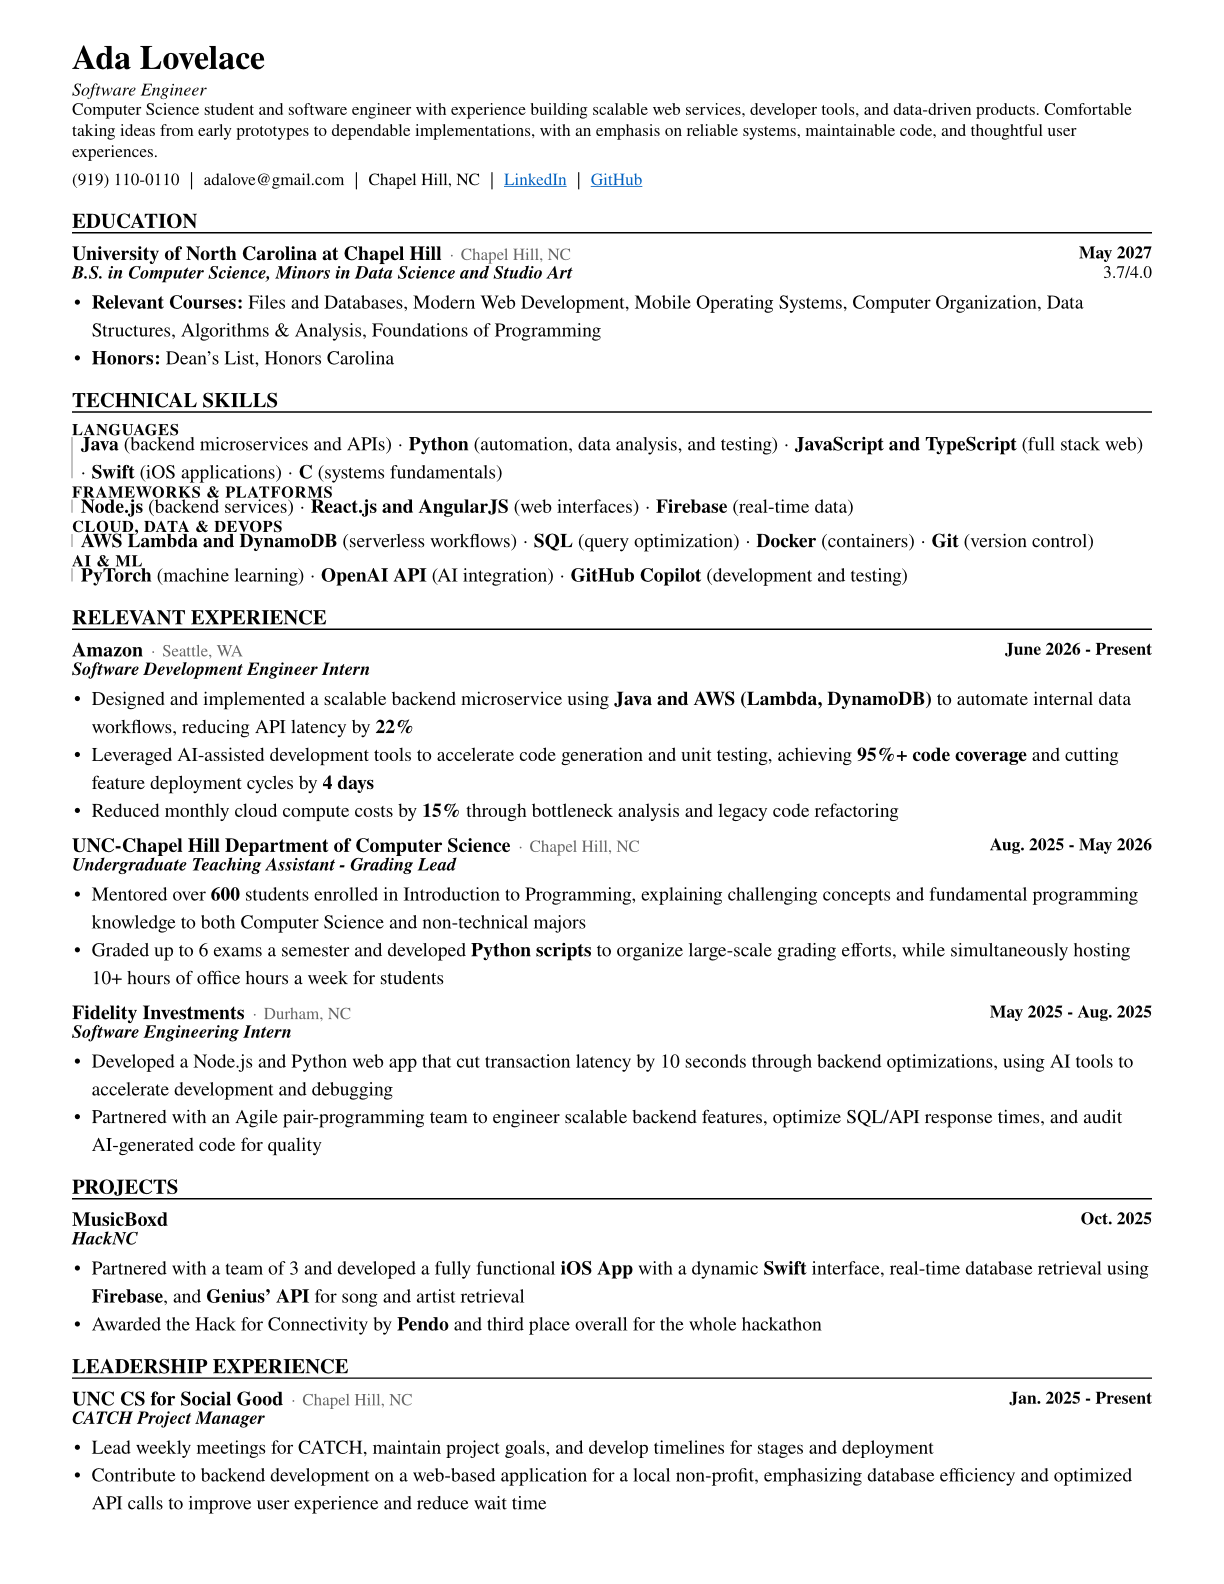
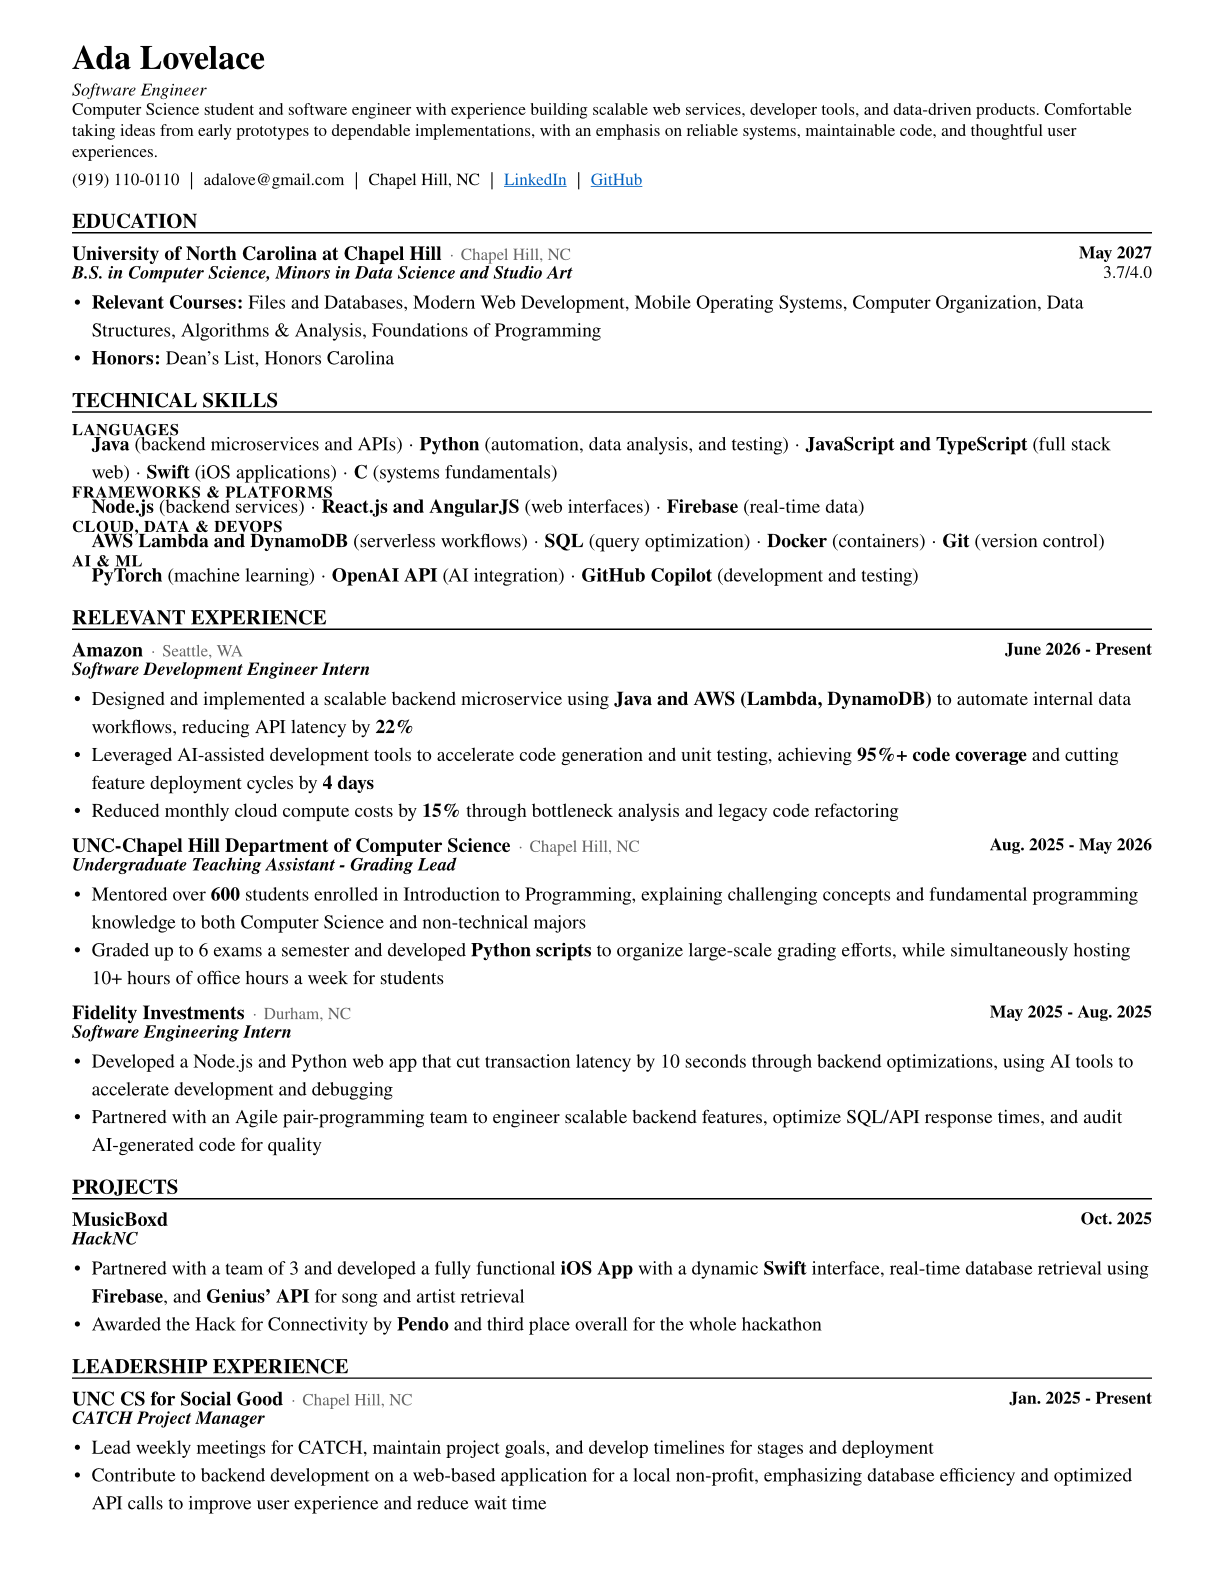
Release 0.5.1

Changed region(s): [[0.0621, 0.2784, 0.9314, 0.3712]]

diff --git a/README.md b/README.md
@@ -7,7 +7,7 @@ A compact Typst resume template with a traditional, single-column layout.
 ## Usage
 
 ```typst
-#import "@local/simple-resume:0.5.0": resume, entry, skills
+#import "@local/simple-resume:0.5.1": resume, entry, skills
 
 #show: resume.with(
   name: "Ada Lovelace",
